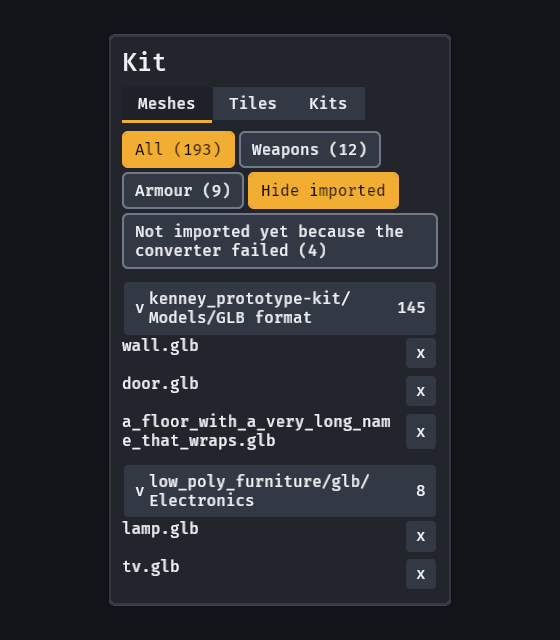
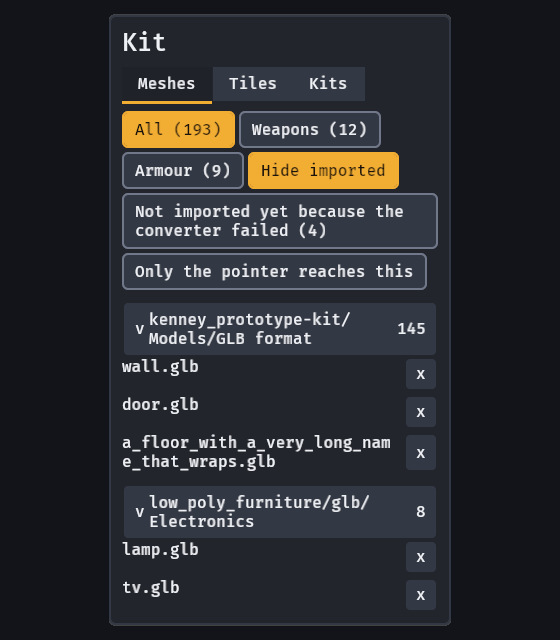
Docs: the kit still with the quiet chip, and iteration 113's log line
The still is re-recorded from examples/kit at 560x640 (six chips, the quiet one
last) and the media row, the layout guide's parts table and the catalogue entry
name it. Log: what shipped, both assumed decisions, the four tests, the gate's
counts.

Changed region(s): [[0.1821, 0.0, 0.8196, 1.0]]

diff --git a/docs/media/README.md b/docs/media/README.md
@@ -79,7 +79,7 @@ Every picture comes from `examples/gallery` (`options.gif` from `examples/option
 | `minimap-wrapped.png` | under `CodeSoftWrap` the lane is an outline of the **file**, not of the scroll (1218×596: `examples/prose` with `GOOEY_WRAPPED_MINIMAP=1` at 1280×720, dark on the left and parchment on the right, each cropped to `24,24,628,620` and joined side by side): the 300-line level script wrapped at the pane's edge, so every line is two to six display rows, and the lane draws one bar per line scaled to the file's own longest line (each bar whole, not a short segment per row); the view band at the top is as tall as the ~17 lines in view, not the ~120 rows the pane draws of them. The pane beside it is the plain editor, one long line cut at the edge | `GOOEY_WRAPPED_MINIMAP=1 GOOEY_FRAMES=100 GOOEY_SIZE=1280x720 GOOEY_SHOT=<skin>.png cargo run --release --example prose` for `GOOEY_SKIN` unset and `parchment`, each cropped to `24,24,628,620` and joined side by side with Pillow | 2026-11-26 | 0.61.0 |
 | `prose.png` | #114 (1280×720 capture of `examples/prose`): one page of notes (a heading, a long paragraph, a list, a quote, a fence, links) in two code editors side by side; left `CodeSoftWrap` + `CodeMarkdown`: the paragraph wrapped at the pane's edge over five rows under one line number, the heading, `**bold**` (rose) and `*emphasis*` (violet) in two inks (#115), `` `code` ``, list dashes, links and the fence each in their own ink; right the plain editor, the paragraph one long line cut at the edge | `GOOEY_FRAMES=100 GOOEY_SIZE=1280x720 GOOEY_SHOT=prose.png cargo run --release --example prose` |
 | `host_knobs.png` | #108, #109, #110 (1280×720 capture of `examples/host_knobs`): a split whose divider is `SplitThickness(6.0)` between a Status panel of four `LedSize(1)` LEDs (Agent live, Build busy, Deploy failed, Mirror off) and a Places panel whose Notes column is `Column::wrap()`: rows of one, three and four lines beside single-line Name and Qty cells centred in the taller row. A still, not a GIF: nothing here moves. |
-| `chip.png` | `chip`, `toggle_chip` and `quiet_chip` (560×640 capture of `examples/kit`): a wrapping row of six chips under the tab strip: three category chips (the first lit in the accent by the host's `Selected`), a lit `toggle_chip`, a long unlit one whose words wrap at a word inside the panel's width instead of pushing it wider, and a `quiet_chip` ("Only the pointer reaches this") the host hears itself: same height, frame and ink, no tab stop and no `Activate`. Clicking it lights it and no other chip, as clicking a category chip does; the lit chips are the accent with `accent_text` and the others the raised fill with the outline frame. |
+| `chip.png` | `chip`, `toggle_chip` and `quiet_chip` (560×640 capture of `examples/kit`): a wrapping row of six chips under the tab strip: three category chips (the first lit in the accent by the host's `Selected`), a lit `toggle_chip`, a long unlit one whose words wrap at a word inside the panel's width instead of pushing it wider, and a `quiet_chip` ("Only the pointer reaches this") that is a host's own: the same height, frame and ink as a chip, and no tab stop, no `Activate` and no focus ring ever. The lit chips are the accent with `accent_text`, the others the raised fill with the outline frame. |
 | `text-face.png` | #118 (1280×360: `examples/text_face` at 1280×720, halved and joined side by side, dark on the left and parchment on the right): one panel of prose in a loaded reading serif beside a panel of the skin's own widgets - a heading in the skin's heading face, two serif paragraphs, a serif line wrapping `C:\orchard\notes.md` beside a serif label, two buttons, then the widget panel's switch, choice, slider, toggle and text field in the skin's body face. The role still writes each text's ink and size; only the prose's face differs, and the prose's two paragraphs measure 14.4:1 (dark) and 8.7:1 (parchment) against their panels. | `GOOEY_FRAMES=90 GOOEY_SHOT=<skin>.png cargo run --release --example text_face` for `GOOEY_SKIN` unset and `parchment`, each halved and joined side by side | 2026-11-25 | 0.60.0 |
 | `tags.png` | `tag` and `TagTone` (500×220: the panel of `examples/tags` in the dark skin on the left and the parchment skin on the right, two crops joined): five rows of a name and two tags (ELITE red, NEW quiet outline; BOSS accent, FROST light blue; Legendary orange, Rare yellow; WARN amber, LIVE green) and a row whose "2 STALE" tag sits between two words; every tag is one line high with black or white words chosen for its plate, and no row is taller than the plain label's. A still: nothing here moves. | `GOOEY_SKIN=dark GOOEY_FRAMES=20 GOOEY_SHOT=dark.png cargo run --release --example tags` (and `GOOEY_SKIN=parchment`), then the panel cropped from each and joined | 2026-11-22 | dark and parchment at 1x text |
 | `markdown.gif` | a page of Markdown (5.0 s at 20 fps, 540×490, the panel of `examples/markdown` cropped from the 1280×720 window): the style guide at its top, "The style guide", a paragraph whose three links are underlined words in the line, the Palette heading with a picture of three bars of colour and a table (a raised header row, lines between the cells, a struck-through word); the page glides to Palette, then to Type (a code block, a quote bar, and a framed box naming the missing picture `guide/img/missing.png`), then to Checklist (task boxes, a nested item, a numbered list, a rule and the last line), and back to the top by the heading "The style guide" | `GOOEY_FRAMES=215 GOOEY_JUMP=palette,type,checklist,the-style-guide GOOEY_JUMP_EVERY=45 GOOEY_SIZE=1280x720 GOOEY_SHOT=/tmp/markdown.png GOOEY_SHOT_DIR=/tmp/gooey-markdown GOOEY_SHOT_FROM=26 GOOEY_SHOT_EVERY=2 cargo run --release --features markdown --example markdown` (make `/tmp/gooey-markdown` first), then `magick` crops each frame to 760x690+260+15 and `ffmpeg -framerate 20 -pattern_type glob -i '/tmp/gooey-markdown/f_*.png' -vf "scale=540:-1:flags=lanczos,split[a][b];[a]palettegen=max_colors=64:stats_mode=diff[p];[b][p]paletteuse=dither=bayer:bayer_scale=4" -loop 0 docs/media/markdown.gif` | 2026-11-13 | unreleased |

diff --git a/docs/loop-log.md b/docs/loop-log.md
@@ -3878,3 +3878,51 @@ incremental wrap-map rebuild from `take_line_edits` (a prose pane rebuilds its w
 keystroke, median 9.7 ms at 20,000 lines); (3) windowed variable-height table; (4) a `problems()`
 note for a divider under 24 px; (5) a livelier dark-skin `warning` plate. The indent guides under
 soft wrap were read and reported, not edited (see above).
+
+## Iteration 113 — 2026-11-27 — `quiet_chip`: a chip the pointer reaches and the focus does not (#121)
+
+**What and why.** The one open issue, #121, and the last control without a quiet variant. `button`
+has `plain_button`, `list_row` has `quiet_list_row`, `status_item` has `status_item_quiet`; a `chip`
+had only the `Activate`-bus one. The Dark Factory editor keeps focus traversal off by design (its
+own `focus_traversal_stays_off_until_somebody_reopens_it` refuses a `TabIndex`), so with `chip()` it
+would take a tab stop and an `Activate` it has decided against — and a hand-built `Role::Chip` node
+is the second implementation the kit exists to end (its `chrome::chip`, 16 call sites).
+
+**What shipped.** `quiet_chip(label)`: `Node::default()`, `Role::Chip`, `Hovered::default()` and one
+`Role::ChipText` child carrying the chip's `CHIP_TEXT` break rule. No `Button`, no `TabIndex`, no
+`AutoDirectionalNavigation`. Because the role is the same, **no skin code changed**: the fill,
+frame, radius, padding, hit floor and every state colour are the one `Role::Chip` arm; the pointer
+still lights it (only a `Button` was ever needed for `Activate`), and the host's `Selected` is the
+lit look. Re-exported flat from `lib.rs`.
+
+**Assumed decisions (on #121, `assumed-decision` labeled).** (1) No pressed look and no quiet
+`toggle_chip`: `Pressed` is Bevy `Button`'s state and the other quiet variants have none; a quiet
+toggle cannot hear `Activate`, so it could only be a host-written flip plus a host-sent
+`ValueChange`, which is the host's one path. (2) The a11y role stays the container
+`update_accessibility` gives a role-less widget (the `plain_button` precedent) rather than declaring
+`Button` with no `Click` behind it; the label is the words, which is what the acceptance asks, and
+the docs say plainly that `chip` is the one for anything a reader must activate. Both are on the
+issue with the option each rejected.
+
+**Tests** (`tests/chip.rs`, four, each mutation-checked): the component set (putting `Button` +
+`TabIndex` back fails it); the look equal to a `chip`'s in all four presets — rest, hovered, lit and
+lit-hovered fills, the inks, and **the same laid-out box** — with no `Activate` and no
+`ValueChange<bool>` when `Selected` comes and goes; a real click reaching only the host, and Tab
+from the `chip` beside it never landing on it (putting `TabIndex` back fails it); and its words as
+its `AccessibilityNode` label with no declared `Click`.
+
+**Docs and demo.** README's chrome bullet, `docs/guide/layout.md`'s parts table and
+`docs/guide/catalogue.md`, the CHANGELOG, and `docs/research/chip-quiet.md` (source 1 is WCAG 2.2
+SC 2.1.1's own note that not every pointer control must be keyboard focusable, which is the
+standard's line on when a quiet variant is conformant; source 4 is the editor's gate). The still
+`docs/media/chip.png` now shows six chips including the quiet one and its row in
+`docs/media/README.md` says so.
+
+**Checklist.** fmt, clippy `-D warnings`, nextest, doctests, `cargo check --lib`, wasm32,
+`cargo doc -D warnings` — see below for the counts.
+
+**Top 5 backlog.** (1) crates.io token still 403 from 0.51.9 through 0.61.0 (owner must reissue;
+0.62.0 joins the pending list); (2) incremental wrap-map rebuild from `take_line_edits` (a prose
+pane rebuilds its whole wrap on one keystroke, median 9.7 ms at 20,000 lines); (3) windowed
+variable-height table; (4) a `problems()` note for a divider under 24 px; (5) the indent guides
+under soft wrap (read and reported, not edited).
